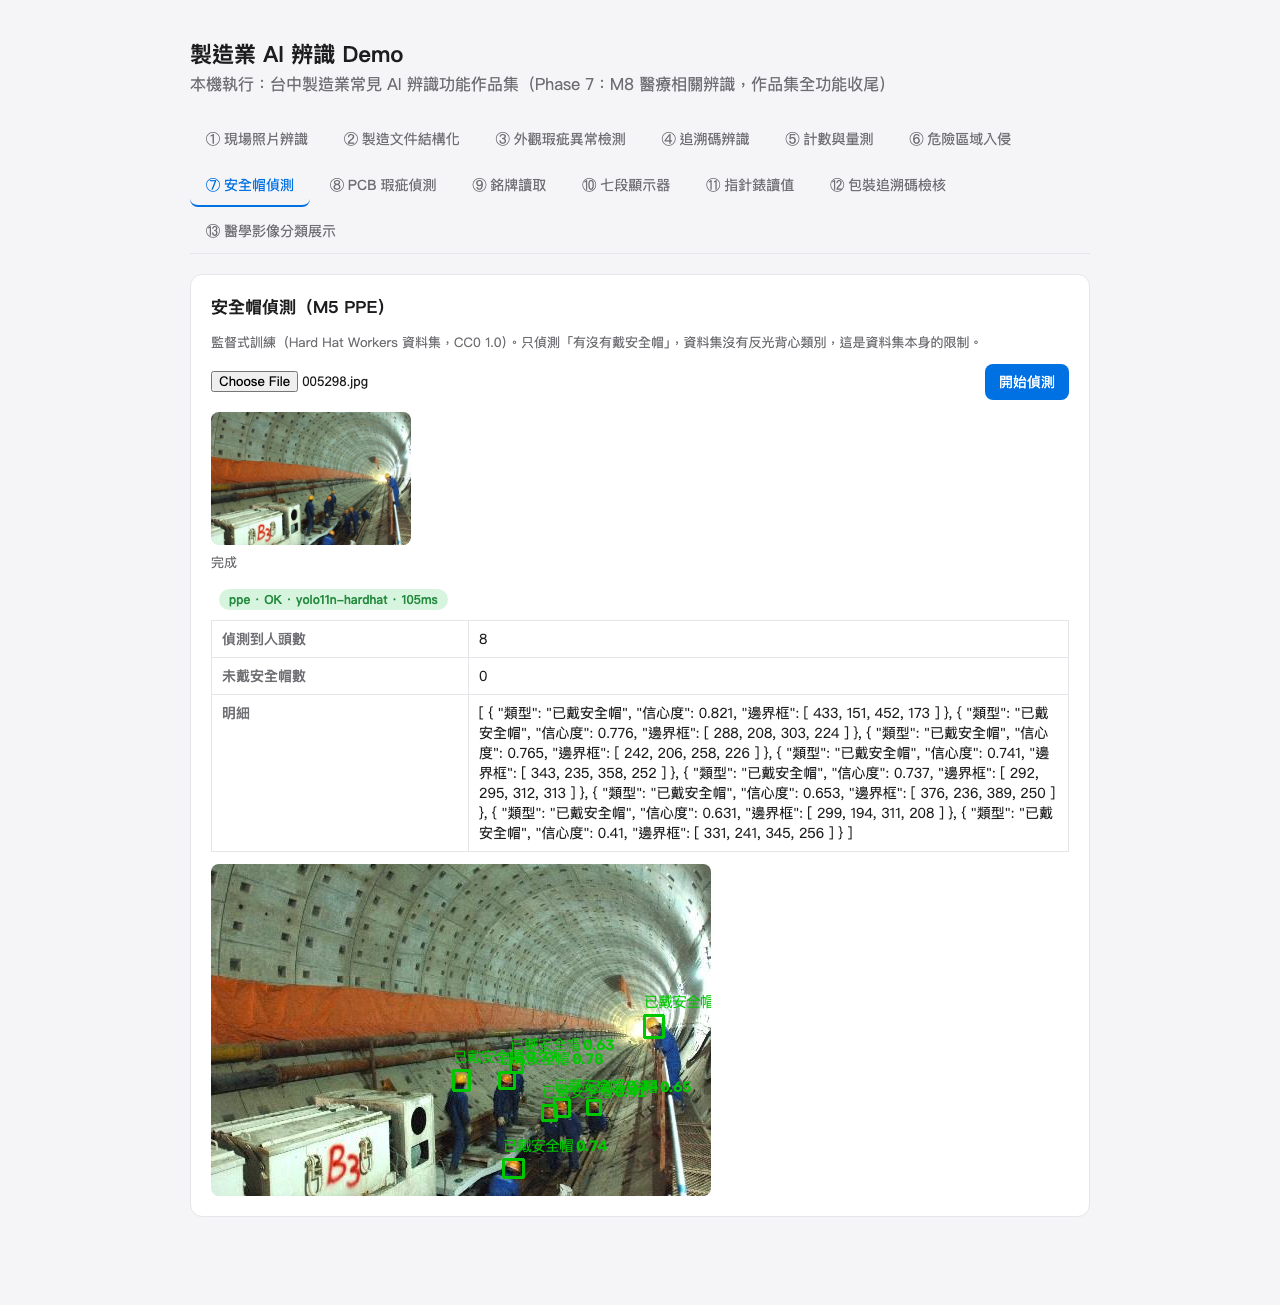
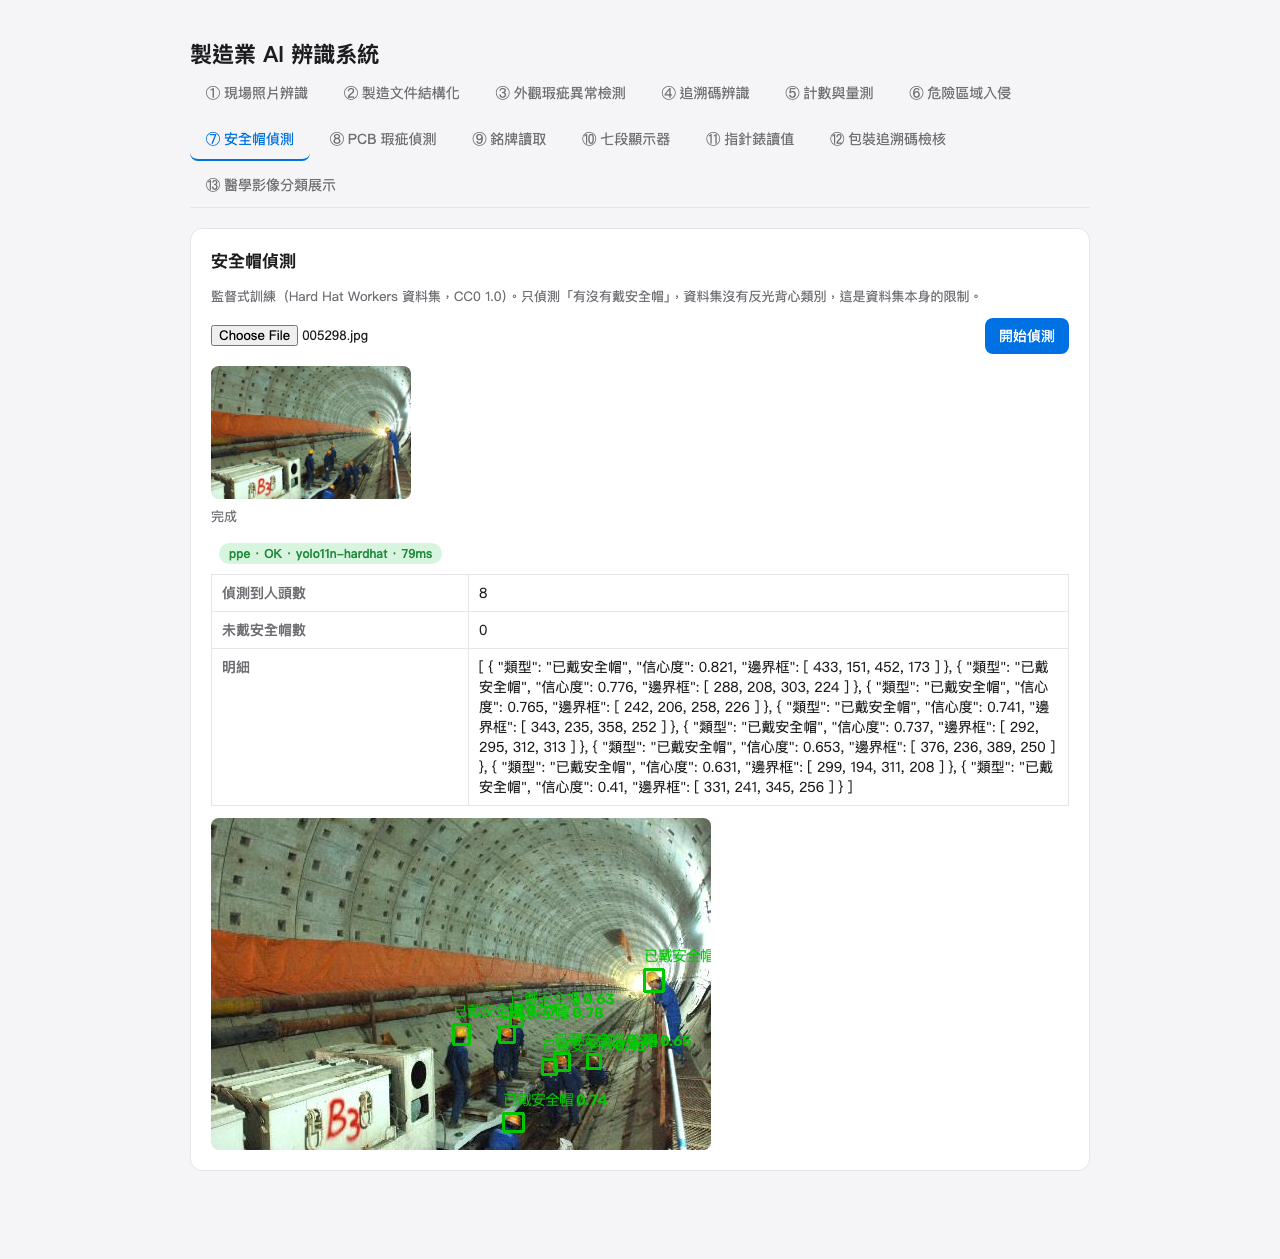
refactor: 前端拿掉 M 編號與功能摘要副標題，README 同步改版並補實際辨識畫面
前端各分頁標題（如「危險區域入侵（M5）」）拿掉內部規劃用的 M 編號後綴，
只保留功能名稱；首頁副標題（工單/追溯碼...等功能清單）整段拿掉，
沿用分頁列表本身就足以說明功能範圍。README 標題與功能表同步改為
「台中製造業 AI 辨識系統」，表格拿掉「模組」欄位的 M 編號，只留功能
說明；並修正 scripts/capture_screenshots.py 的 M5 危險區域截圖：多邊形
底邊 fraction 0.98 差一點點沒蓋到人員腳底參考點（實際圖片腳底
fraction≈0.989），畫面上看起來涵蓋人物但入侵判定其實是 false，
改成 0.995 後正確示範 NG（是否入侵: true）案例；重新產生全部 13 張截圖
換上新版無 M 編號的畫面。M 編號本身仍保留在 CLAUDE.md 作為內部開發
階段對照，不影響對外畫面與文件呈現。

Changed region(s): [[0.1562, 0.4956, 0.8438, 0.9293], [0.125, 0.031, 0.7812, 0.5576], [0.4062, 0.2168, 0.8438, 0.3098]]

diff --git a/frontend/index.html b/frontend/index.html
@@ -100,7 +100,6 @@
 <body>
 
 <h1>製造業 AI 辨識系統</h1>
-<p class="subtitle">台中製造業現場常見 AI 辨識功能：工單/追溯碼、外觀瑕疵檢測、計數量測、工安偵測、銘牌儀表讀值、包裝追溯與醫學影像分類</p>
 
 <div class="tabs">
   <button class="tab-btn active" data-tab="general">① 現場照片辨識</button>
@@ -120,7 +119,7 @@
 
 <div class="panel active" id="panel-general">
   <div class="card">
-    <h2>現場照片開放式辨識（M9）</h2>
+    <h2>現場照片開放式辨識</h2>
     <p style="color:var(--muted); font-size:13px;">上傳機台、工具、零件或標示的照片，AI 會判斷「這是什麼」，並標註可見文字與安全觀察</p>
     <div class="row">
       <input type="file" id="general-file" accept="image/*">
@@ -134,7 +133,7 @@
 
 <div class="panel" id="panel-docs">
   <div class="card">
-    <h2>製造文件結構化（M4）</h2>
+    <h2>製造文件結構化</h2>
     <p style="color:var(--muted); font-size:13px;">
       上傳工單、出貨單、進料檢驗報告等文件或掃描圖檔，AI 會判斷文件類型並整理成 JSON 欄位。
       工單/出貨單/進料檢驗報告有嚴格 schema 驗證，數字欄位會附上「來源驗證」——核對這個數字是否真的能在 OCR 原文中找到。
@@ -156,7 +155,7 @@
 
 <div class="panel" id="panel-anomaly">
   <div class="card">
-    <h2>外觀瑕疵異常檢測（M3）</h2>
+    <h2>外觀瑕疵異常檢測</h2>
     <p style="color:var(--muted); font-size:13px;">
       非監督式：模型只用良品照片擬合，不需要 NG 樣本。用 MVTec AD 資料集示範（<code>metal_nut</code> 螺帽／<code>screw</code> 螺絲／<code>tile</code> 磁磚），
       訓練資料集授權為 CC BY-NC-SA 4.0，僅供非商業用途，正式導入時需以自有產線影像重新擬合模型；實際 AUROC 見 <code>models/anomaly/&lt;類別&gt;/metrics.json</code>
@@ -178,7 +177,7 @@
 
 <div class="panel" id="panel-codes">
   <div class="card">
-    <h2>追溯碼辨識（M1）</h2>
+    <h2>追溯碼辨識</h2>
     <p style="color:var(--muted); font-size:13px;">上傳含 QR / 條碼 / DataMatrix 的照片，會解析 GS1 UDI（批號/效期/序號），效期已過標紅、30 天內到期標黃</p>
     <div class="row">
       <input type="file" id="codes-file" accept="image/*">
@@ -192,7 +191,7 @@
 
 <div class="panel" id="panel-measure">
   <div class="card">
-    <h2>零件計數（M2-1）</h2>
+    <h2>零件計數</h2>
     <p style="color:var(--muted); font-size:13px;">白底、零件與背景對比明顯的照片效果最好；相黏零件會用 watershed 分離</p>
     <div class="row">
       <input type="file" id="count-file" accept="image/*">
@@ -205,7 +204,7 @@
     <div class="result" id="count-result"></div>
   </div>
   <div class="card">
-    <h2>尺寸量測（M2-2）</h2>
+    <h2>尺寸量測</h2>
     <p style="color:var(--muted); font-size:13px;">
       畫面需放一個 ArUco 標記當比例尺（用專案的 <code>scripts/make_aruco.py</code> 產生可列印 PDF），
       會用標記四角做透視校正後再量測
@@ -228,7 +227,7 @@
 
 <div class="panel" id="panel-safety">
   <div class="card">
-    <h2>危險區域入侵（M5）</h2>
+    <h2>危險區域入侵</h2>
     <p style="color:var(--muted); font-size:13px;">
       上傳照片後，在圖上依序點擊 3 個以上的點畫出危險區域，按「完成區域」封閉多邊形（不畫區域就只做人員偵測，不判斷入侵）
     </p>
@@ -247,7 +246,7 @@
 
 <div class="panel" id="panel-ppe">
   <div class="card">
-    <h2>安全帽偵測（M5 PPE）</h2>
+    <h2>安全帽偵測</h2>
     <p style="color:var(--muted); font-size:13px;">
       監督式訓練（Hard Hat Workers 資料集，CC0 1.0）。只偵測「有沒有戴安全帽」，資料集沒有反光背心類別，這是資料集本身的限制。
     </p>
@@ -263,7 +262,7 @@
 
 <div class="panel" id="panel-defect">
   <div class="card">
-    <h2>PCB 瑕疵偵測（M6）</h2>
+    <h2>PCB 瑕疵偵測</h2>
     <p style="color:var(--muted); font-size:13px;">
       監督式訓練（DeepPCB 資料集，MIT License），偵測 6 種瑕疵：斷路、短路、缺口、毛刺、多餘銅箔、針孔。
       跟 M3（非監督，只需良品）互補——M3 不需要 NG 樣本但只能說「哪裡異常」，M6 需要標註過的 NG 樣本但能講出「是哪一種瑕疵」。
@@ -280,7 +279,7 @@
 
 <div class="panel" id="panel-nameplate">
   <div class="card">
-    <h2>銘牌讀取（M7）</h2>
+    <h2>銘牌讀取</h2>
     <p style="color:var(--muted); font-size:13px;">
       OCR 擷取文字後用 AI 整理成廠牌／型號／序號／製造日期／電壓
     </p>
@@ -296,7 +295,7 @@
 
 <div class="panel" id="panel-sevenseg">
   <div class="card">
-    <h2>七段顯示器判讀（M7）</h2>
+    <h2>七段顯示器判讀</h2>
     <p style="color:var(--muted); font-size:13px;">
       一般 OCR 認不出七段顯示器字型（實測 RapidOCR 完全偵測不到、Tesseract 會亂猜成中文），改用 OpenCV 逐段判讀
     </p>
@@ -312,7 +311,7 @@
 
 <div class="panel" id="panel-gauge">
   <div class="card">
-    <h2>指針錶讀值（M7）</h2>
+    <h2>指針錶讀值</h2>
     <p style="color:var(--muted); font-size:13px;">
       輸入最小/最大刻度與對應角度（角度慣例：0 度＝3 點鐘方向，順時針遞增；不知道怎麼量可以先試預設值再調整）
     </p>
@@ -334,7 +333,7 @@
 
 <div class="panel" id="panel-packaging">
   <div class="card">
-    <h2>包裝追溯碼檢核（M8-1）</h2>
+    <h2>包裝追溯碼檢核</h2>
     <p style="color:var(--muted); font-size:13px;">
       同一張包裝照片比對 GS1 UDI 條碼跟印刷文字上的批號/效期是否一致——GMP 追溯常見需求，兩邊對不上代表可能印錯或貼錯條碼
     </p>
@@ -350,7 +349,7 @@
 
 <div class="panel" id="panel-pneumonia">
   <div class="card">
-    <h2>醫學影像分類展示（M8-2）</h2>
+    <h2>醫學影像分類展示</h2>
     <p style="color:var(--muted); font-size:13px; font-weight:600; color:#ff3b30;">
       ⚠ 僅供技術展示，非醫療診斷用途。這只是拿公開的 PneumoniaMNIST 資料集（CC BY 4.0）示範 AI 影像分類能力，不是真的醫療判斷工具。
     </p>

diff --git a/scripts/capture_screenshots.py b/scripts/capture_screenshots.py
@@ -103,9 +103,11 @@ def capture_safety(page):
     # 用 locator.click(position=...) 而不是 page.mouse.click(絕對座標)：
     # canvas 比 viewport 高，絕對座標點擊下半部會落在畫面捲動範圍外點不到；
     # position 是相對 canvas 左上角，click() 每次都會自動把 canvas 捲進可視範圍再點。
+    # y 下緣要到 1.0（畫布底部）：人員的「腳底參考點」在原圖裡非常接近下緣（fraction≈0.989），
+    # 之前用 0.98 只差一點點就沒蓋到，畫出來像是涵蓋人物，但 pointPolygonTest 其實判定沒入侵。
     w, h = box["width"], box["height"]
     points = [(w * 0.03, h * 0.05), (w * 0.45, h * 0.05),
-              (w * 0.45, h * 0.98), (w * 0.03, h * 0.98)]
+              (w * 0.45, h * 0.995), (w * 0.03, h * 0.995)]
     for x, y in points:
         canvas.click(position={"x": x, "y": y})
         page.wait_for_timeout(150)

diff --git a/README.md b/README.md
@@ -1,48 +1,48 @@
-# 台中製造業 AI 辨識 Demo
+# 台中製造業 AI 辨識系統
 
-本機執行的視覺辨識網頁 Demo，作品集用途，對應台中／中科製造業常見情境（工具機與精密機械、手工具、螺絲扣件、金屬加工/CNC、PCB 與電子）。核心辨識完全離線（本機 Ollama／自行訓練的模型），Gemini 免費層只當可選備援。
+本機執行的視覺辨識系統，對應台中／中科製造業常見情境（工具機與精密機械、手工具、螺絲扣件、金屬加工/CNC、PCB 與電子、醫材與藥品包裝）。核心辨識完全離線（本機 Ollama／自行訓練的模型），Gemini 免費層只當可選備援。
 
-技術決策、每個 Phase 的實測數字與踩過的坑，見 [CLAUDE.md](CLAUDE.md)；套件/模型/資料集授權查證見 [docs/licenses.md](docs/licenses.md)。開發規劃原始需求見 [docs/manufacturing-ai-plan-prompt.md](docs/manufacturing-ai-plan-prompt.md)。
+技術決策、每個開發階段的實測數字與踩過的坑，見 [CLAUDE.md](CLAUDE.md)；套件/模型/資料集授權查證見 [docs/licenses.md](docs/licenses.md)。
 
-## 目前功能（Phase 0-7 全部完成）
+## 功能
 
-| 模組 | 功能 | 技術 | 實測指標 |
-|---|---|---|---|
-| M9 | 現場照片開放式辨識（機台、工具、零件、標示、安全觀察） | Ollama `qwen3.5:9b`（本機）／Gemini 備援 | — |
-| M4 | 製造文件結構化（工單／出貨單／進料檢驗報告有嚴格 schema + 數字來源核對，其餘文件類型自由格式） | RapidOCR + RapidTable + Ollama／Gemini（Tesseract 保留當比較選項） | — |
-| M3 | 外觀瑕疵異常檢測（非監督式，只需良品照片） | Anomalib PatchCore | AUROC 0.965-0.999（三類別） |
-| M1 | 追溯碼辨識（QR / 條碼 / DataMatrix / GS1 UDI，效期檢核） | zxing-cpp | — |
-| M2 | 零件計數（含相黏分離）與尺寸量測（ArUco 透視校正） | OpenCV | 誤差約 1% |
-| M5 | 危險區域入侵偵測（人員偵測 + 前端畫多邊形） | YOLO11n（COCO 預訓練） | — |
-| M5 PPE | 安全帽偵測（helmet／head 兩類，無反光背心類別） | YOLO11n（監督式訓練） | mAP50 0.977 |
-| M6 | PCB 瑕疵偵測（6 種瑕疵：斷路/短路/缺口/毛刺/多餘銅箔/針孔） | YOLO11n（監督式訓練） | mAP50 0.978 |
-| M7 銘牌 | 銘牌 OCR + 結構化（廠牌/型號/序號/製造日期/電壓） | RapidOCR + Ollama／Gemini | — |
-| M7 七段顯示器 | LED/LCD 數字判讀（OCR 認不出七段字型，改用逐段分析） | OpenCV | 合成 0-9 全對 |
-| M7 指針錶 | 指針角度偵測 → 讀值換算 | OpenCV（HoughCircles + HoughLinesP） | 6 個測試角度誤差 <5% |
-| M8-1 | 包裝追溯碼檢核（GS1 條碼 vs 印刷批號/效期比對，GMP 追溯用途） | zxing-cpp + RapidOCR + Ollama／Gemini | — |
-| M8-2 | 醫學影像分類展示（**僅供技術展示，非醫療診斷用途**） | PyTorch 小型 CNN（PneumoniaMNIST） | 測試集 ACC 0.886／AUC 0.935 |
+| 功能 | 技術 | 實測指標 |
+|---|---|---|
+| 現場照片開放式辨識（機台、工具、零件、標示、安全觀察） | Ollama `qwen3.5:9b`（本機）／Gemini 備援 | — |
+| 製造文件結構化（工單／出貨單／進料檢驗報告有嚴格 schema + 數字來源核對，其餘文件類型自由格式） | RapidOCR + RapidTable + Ollama／Gemini（Tesseract 保留當比較選項） | — |
+| 外觀瑕疵異常檢測（非監督式，只需良品照片） | Anomalib PatchCore | AUROC 0.965-0.999（三類別） |
+| 追溯碼辨識（QR / 條碼 / DataMatrix / GS1 UDI，效期檢核） | zxing-cpp | — |
+| 零件計數（含相黏分離）與尺寸量測（ArUco 透視校正） | OpenCV | 誤差約 1% |
+| 危險區域入侵偵測（人員偵測 + 前端畫多邊形） | YOLO11n（COCO 預訓練） | — |
+| 安全帽偵測（helmet／head 兩類，無反光背心類別） | YOLO11n（監督式訓練） | mAP50 0.977 |
+| PCB 瑕疵偵測（6 種瑕疵：斷路/短路/缺口/毛刺/多餘銅箔/針孔） | YOLO11n（監督式訓練） | mAP50 0.978 |
+| 銘牌 OCR + 結構化（廠牌/型號/序號/製造日期/電壓） | RapidOCR + Ollama／Gemini | — |
+| LED/LCD 七段顯示器數字判讀（OCR 認不出七段字型，改用逐段分析） | OpenCV | 合成 0-9 全對 |
+| 指針錶讀值（指針角度偵測 → 讀值換算） | OpenCV（HoughCircles + HoughLinesP） | 6 個測試角度誤差 <5% |
+| 包裝追溯碼檢核（GS1 條碼 vs 印刷批號/效期比對，GMP 追溯用途） | zxing-cpp + RapidOCR + Ollama／Gemini | — |
+| 醫學影像分類展示（**僅供技術展示，非醫療診斷用途**） | PyTorch 小型 CNN（PneumoniaMNIST） | 測試集 ACC 0.886／AUC 0.935 |
 
-規劃的 M1-M9 全部模組已實作完成，見 [CLAUDE.md](CLAUDE.md) 的「待辦」章節查看逐 Phase 的實測紀錄。
+各功能對應的原始開發規劃代號（M1-M9）與逐階段實測紀錄，見 [CLAUDE.md](CLAUDE.md)。
 
-## Demo 截圖
+## 實際辨識畫面
 
 以下截圖用 [`scripts/capture_screenshots.py`](scripts/capture_screenshots.py)（Playwright 自動化）實際跑過每個分頁產生，皆為真實 API 回應，非手動擺拍。
 
-| 模組 | 截圖 |
+| 功能 | 畫面 |
 |---|---|
-| M9 現場照片辨識 | ![M9](docs/screenshots/01_general.png) |
-| M4 製造文件結構化 | ![M4](docs/screenshots/02_docs.png) |
-| M3 外觀瑕疵異常檢測 | ![M3](docs/screenshots/03_anomaly.png) |
-| M1 追溯碼辨識 | ![M1](docs/screenshots/04_codes.png) |
-| M2 計數與量測 | ![M2](docs/screenshots/05_measure.png) |
-| M5 危險區域入侵 | ![M5](docs/screenshots/06_safety.png) |
-| M5 PPE 安全帽偵測 | ![M5 PPE](docs/screenshots/07_ppe.png) |
-| M6 PCB 瑕疵偵測 | ![M6](docs/screenshots/08_defect.png) |
-| M7 銘牌讀取 | ![M7 銘牌](docs/screenshots/09_nameplate.png) |
-| M7 七段顯示器 | ![M7 七段顯示器](docs/screenshots/10_sevenseg.png) |
-| M7 指針錶讀值 | ![M7 指針錶](docs/screenshots/11_gauge.png) |
-| M8-1 包裝追溯碼檢核 | ![M8-1](docs/screenshots/12_packaging.png) |
-| M8-2 醫學影像分類展示 | ![M8-2](docs/screenshots/13_pneumonia.png) |
+| 現場照片辨識 | ![現場照片辨識](docs/screenshots/01_general.png) |
+| 製造文件結構化 | ![製造文件結構化](docs/screenshots/02_docs.png) |
+| 外觀瑕疵異常檢測 | ![外觀瑕疵異常檢測](docs/screenshots/03_anomaly.png) |
+| 追溯碼辨識 | ![追溯碼辨識](docs/screenshots/04_codes.png) |
+| 計數與量測 | ![計數與量測](docs/screenshots/05_measure.png) |
+| 危險區域入侵 | ![危險區域入侵](docs/screenshots/06_safety.png) |
+| 安全帽偵測 | ![安全帽偵測](docs/screenshots/07_ppe.png) |
+| PCB 瑕疵偵測 | ![PCB 瑕疵偵測](docs/screenshots/08_defect.png) |
+| 銘牌讀取 | ![銘牌讀取](docs/screenshots/09_nameplate.png) |
+| 七段顯示器 | ![七段顯示器](docs/screenshots/10_sevenseg.png) |
+| 指針錶讀值 | ![指針錶讀值](docs/screenshots/11_gauge.png) |
+| 包裝追溯碼檢核 | ![包裝追溯碼檢核](docs/screenshots/12_packaging.png) |
+| 醫學影像分類展示 | ![醫學影像分類展示](docs/screenshots/13_pneumonia.png) |
 
 重新產生截圖（需先啟動後端，見下方「啟動」）：
 
@@ -58,7 +58,7 @@ venv/bin/python scripts/capture_screenshots.py
 
 - **商用 AOI／機器視覺軟體**（Cognex VisionPro、MVTec HALCON、Keyence）：付費軟體，無免費替代。
 - **3D 量測、雷射輪廓、熱影像檢測**：需要專用硬體（3D 掃描儀、雷射輪廓儀、熱像儀），非純軟體可解決。
-- **產線高速即時檢測**（工業相機 + PLC 觸發）：需要工業相機與 PLC 硬體整合，本 Demo 只做單張圖片辨識。
+- **產線高速即時檢測**（工業相機 + PLC 觸發）：需要工業相機與 PLC 硬體整合，本系統目前只做單張圖片辨識。
 - **焊道 X 光、刀具磨耗影像**：查證後找不到授權明確的免費公開資料集，不做。
 - **振動／聲音預測保養**：不屬於影像辨識範疇，且需要感測器硬體，不在本專案規劃範圍內。
 - **Google Cloud Vision／Azure AI Vision**：免費額度有限且需綁信用卡，改用完全免費的本機 Ollama + Gemini 免費層方案。
@@ -99,7 +99,7 @@ mkdir -p models/yolo && mv yolo11n.pt models/yolo/
 
 ### 5. MVTec AD 資料集 + 擬合異常檢測模型（M3 用，選用）
 
-M3 需要先擬合模型才能用。資料集下載連結見 [docs/licenses.md](docs/licenses.md)（CC BY-NC-SA 4.0，僅供學習/作品集展示，不可商用）：
+外觀瑕疵異常檢測需要先擬合模型才能用。資料集下載連結見 [docs/licenses.md](docs/licenses.md)（CC BY-NC-SA 4.0，僅供非商業用途，正式導入需以自有產線影像重新擬合）：
 
 ```bash
 mkdir -p data/mvtec_ad && cd data/mvtec_ad
